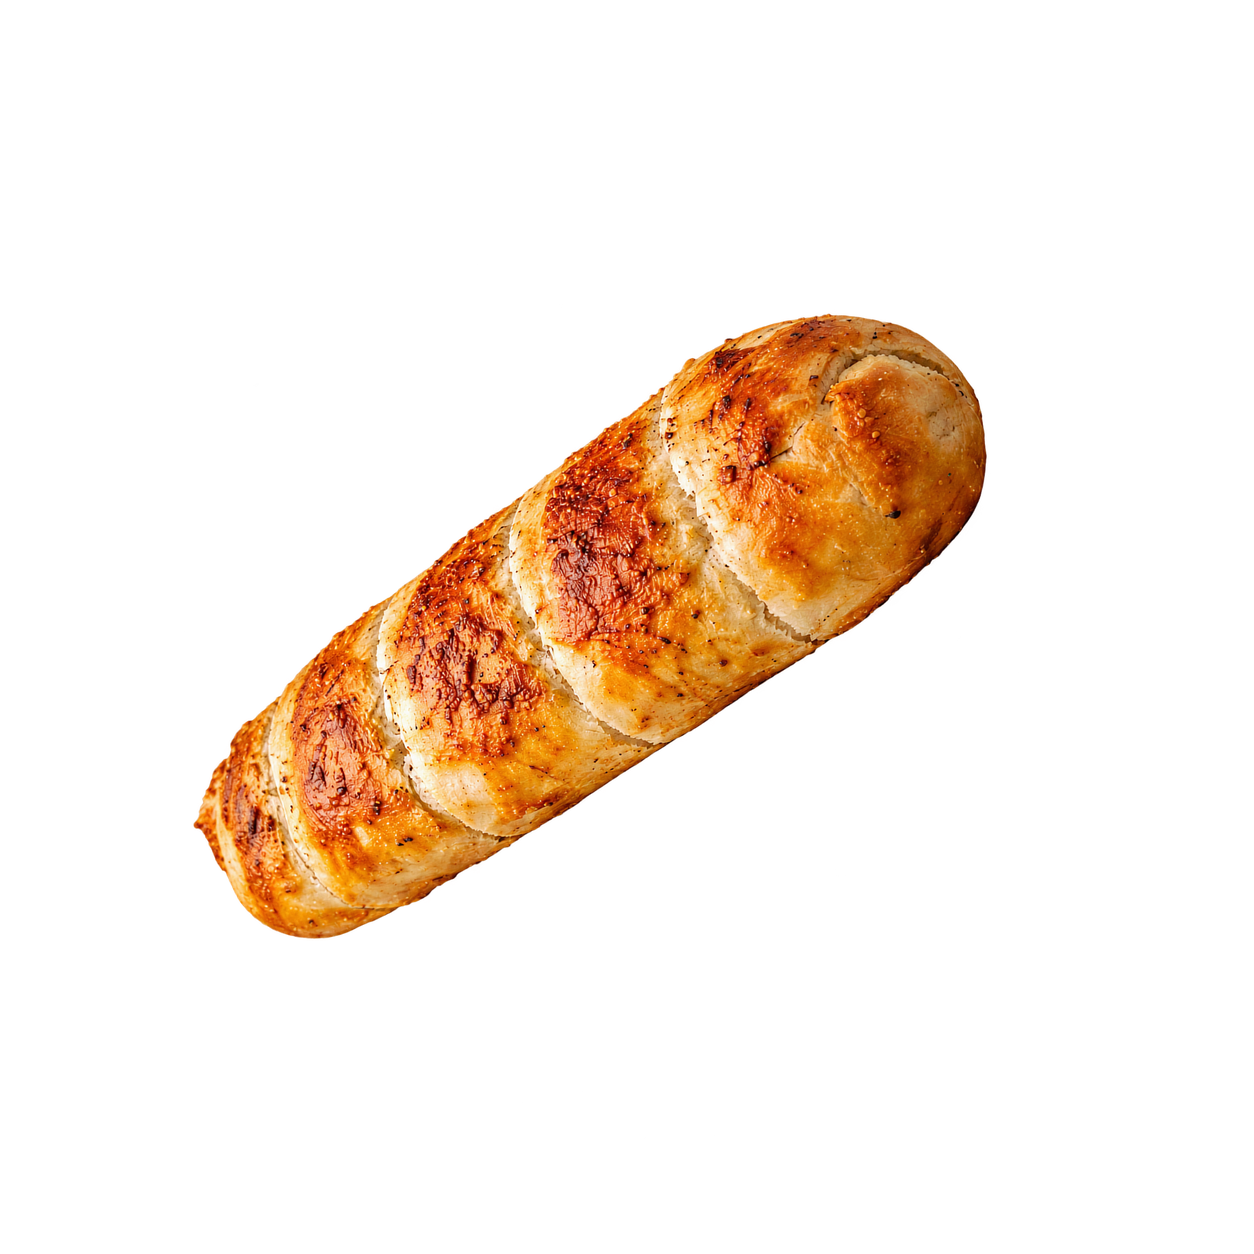
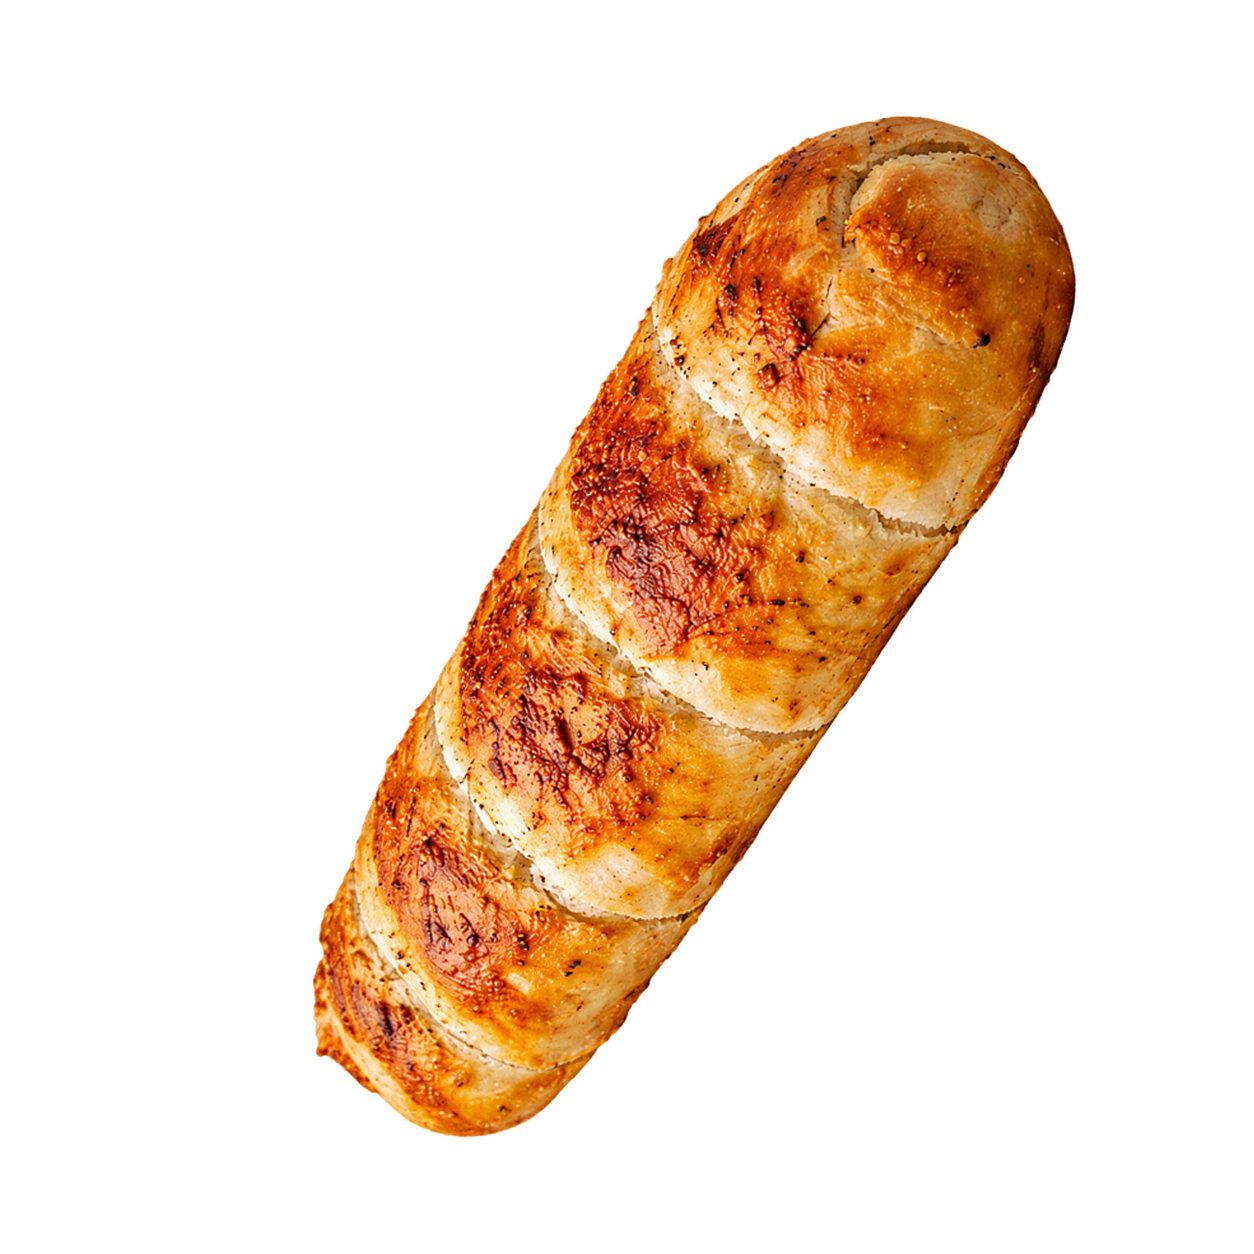
Refine skewer presentation angle

Changed region(s): [[0.1555, 0.0933, 0.8708, 0.933]]

diff --git a/design-qa.md b/design-qa.md
@@ -50,7 +50,7 @@
 9. Authentic-photo correction: removed the 32 invented product substitutes. The delivery catalog now uses eleven transparent cutouts derived from every original Bosque photograph available in the repository, preserving the actual food, ingredients, color, and presentation.
 10. Products without an authentic source photograph use the neutral fallback state until a real photo is supplied. `delivery-full-menu.png` records the corrected category and card treatment.
 11. Category navigation was rebuilt as a true symmetrical half-moon: `Todos` is centered at the apex and four real categories descend on each side. All nine category filters were exercised in the browser.
-12. The five authentic skewer cutouts were normalized geometrically to the same -35 degree axis, canvas occupancy, center, and shadow without changing their food pixels. Sandwich and plated-dish cards use separate consistent scale rules.
+12. The five authentic skewer cutouts were normalized geometrically to the same -58 degree axis, canvas occupancy, center, and shadow without changing their food pixels. Sandwich and plated-dish cards use separate consistent scale rules.
 13. Product detail media now occupies its own hero region above the title, description, price, additions, and controls. Browser checks confirmed that large food photography no longer covers copy or interactive fields.
 14. The Churraspão de coração now uses the distinct open-faced heart filling visible in its original Bosque photograph, instead of repeating the closed Churraspão image from the background of that source photo.
 
